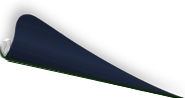
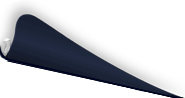
several minor changes - removing unused images - tweaking a couple of color palettes - slightly editing the pageflip images - improving the readability of a meme image

Changed region(s): [[0.0, 0.4592, 1.0, 1.0]]

diff --git a/less/palettes/blue.css b/less/palettes/blue.css
@@ -7,11 +7,11 @@
 }
 
 #background, #fadeOutNews {
-  -webkit-filter: hue-rotate(0deg) saturate(1.3) brightness(1.2);
+  -webkit-filter: hue-rotate(0deg) saturate(1) brightness(1);
 }
 
 #pageflip {
-  -webkit-filter: hue-rotate(0deg) saturate(1.3) brightness(1.4);
+  -webkit-filter: hue-rotate(0deg) saturate(1) brightness(1.1);
 }
 
 #bus {

diff --git a/less/palettes/grey.css b/less/palettes/grey.css
@@ -8,11 +8,11 @@
 }
 
 #background, #fadeOutNews {
-  -webkit-filter: grayscale(1) saturate(2.6) brightness(2.6);
+  -webkit-filter: grayscale(1) saturate(2.6) brightness(2.2);
 }
 
 #pageflip {
-  -webkit-filter: grayscale(1) saturate(2.6) brightness(1.4);
+  -webkit-filter: grayscale(1) saturate(2.6) brightness(1.2);
 }
 
 #pageflipbg {

diff --git a/less/palettes/green.css b/less/palettes/green.css
@@ -8,7 +8,7 @@
 }
 
 #background, #fadeOutNews {
-  -webkit-filter: hue-rotate(-85deg) saturate(1.4) brightness(1.4);
+  -webkit-filter: hue-rotate(-85deg) saturate(1.4) brightness(1);
 }
 
 #pageflip {
